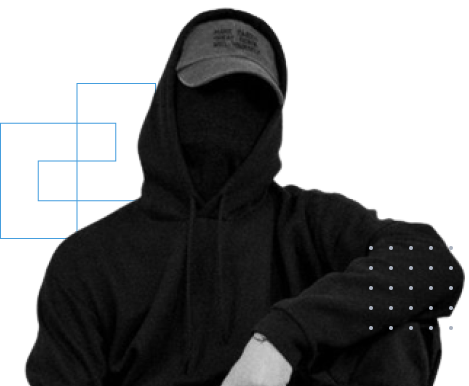
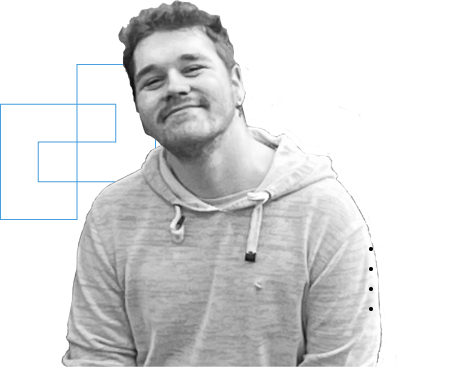
Update: replace hero image

diff --git a/README.md b/README.md
@@ -12,8 +12,8 @@ This is the code for my personal [website](https://gabsavard.com). I am using th
 
 I know websites usually don't have a feature part, especially when they use frameworks like Astro that are more about being static. But I am using this section more as a checklist for what I want to do with my website:
 
-- [ ] Home Page
-  - [ ] Replace the hero image
+- [x] Home Page
+  - [x] Replace the hero image
   - [x] Salutation module
   - [x] Resume
   - [x] Landing
@@ -56,6 +56,9 @@ Astro-website/
 ├── package-lock.json
 ├── public/
 │   ├── computer.svg
+│   ├── downloads/
+│   │     ├── mysql-survival-guide.md
+│   │     └── mysql-survival-guide.pdf
 │   ├── gab_savard_resume.pdf
 │   ├── hero.png
 │   ├── music/
